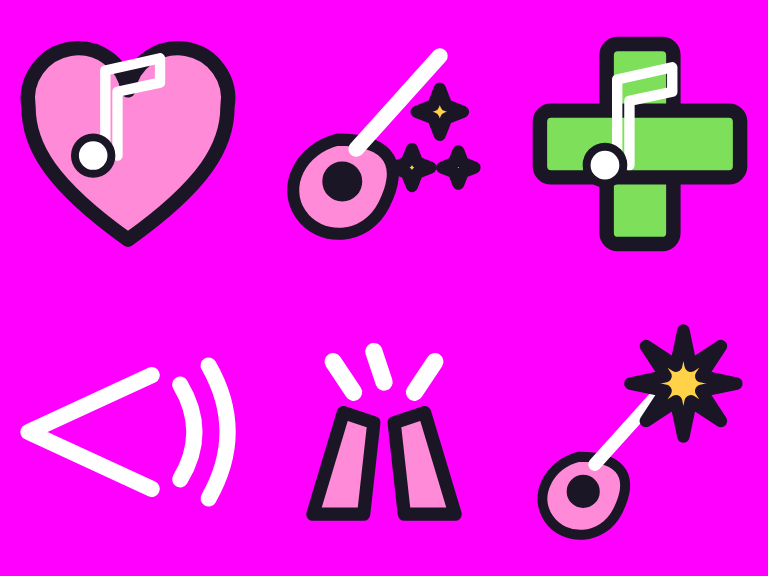
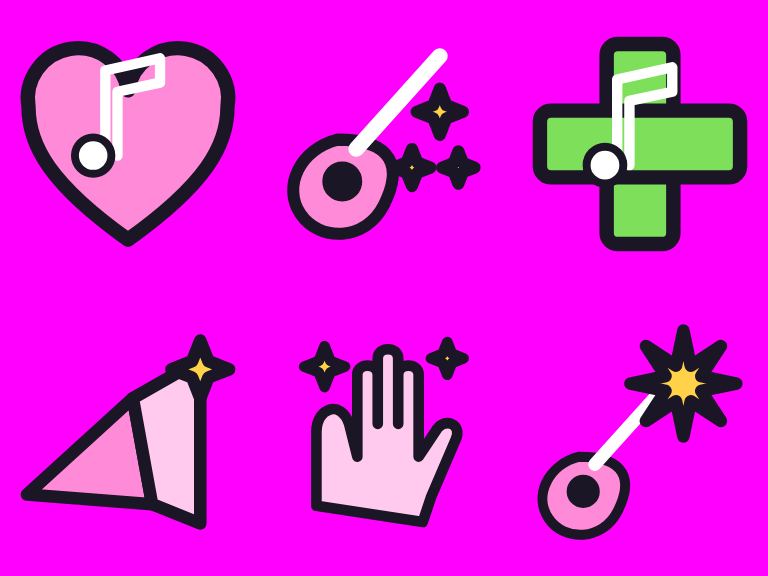
Clearer skill drawings for the newer classes, no arrows to copy (#107)
Wolf and bear heads with muzzles, a diving hawk, an ice cube and crystal
star, a candle, a horn, a clapping hand: whole objects instead of notation,
and their descriptions to match.

Claude-Session: https://claude.ai/code/session_014ahczLapsyjHfgmunVY6Sb

Changed region(s): [[0.0312, 0.5625, 0.3125, 0.9375], [0.375, 0.5625, 0.625, 0.9375]]

diff --git a/src/components/art/glyphs.ts b/src/components/art/glyphs.ts
@@ -245,47 +245,47 @@ export const GLYPHS: Readonly<Record<string, string>> = {
   'skill.glacialCharge': G('rotate(90 24 24)', SWORD('u')) + P('M2 14l8 3-8 3zM4 26l8 2-8 3zM2 36l8 2-8 3z', 'b'),
   'skill.frozenHeart': HEART('u') + P('M24 12l-6 8 6 18 6-18z', 'w'),
   'skill.rimeField': P('M4 32a20 8 0 1 0 40 0a20 8 0 1 0-40 0z', 'b') + P('M8 30l2-10 3 9M20 26l3-12 3 12M34 28l3-10 2 10', 'u'),
-  'skill.frostShatter': R(16, 16, 16, 16, 2, 'u') + P('M8 8l6 6M40 8l-6 6M8 40l6-6M40 40l-6-6', 'n') + P('M2 6l4 4M46 6l-4 4M2 42l4-4M46 42l-4-4', 'b'),
-  'skill.shatterpoint': P('M24 4l14 12-6 26H16l-6-26z', 'u') + P('M24 4l-3 14 6 6-3 18', 'n') + C(23, 22, 4, 'r'),
-  'skill.avalancheLeap': P('M4 44L24 14l20 30z', 'w') + P('M16 26l8-12 8 12-4-2-4 4-4-4z', 'u') + P('M24 2v14m-5-5 5 5 5-5', 'n'),
-  'skill.iceborn': R(18, 6, 12, 36, 3, 'u') + P('M4 44l10-14 6 6 8-14 8 12 8 10z', 'b'),
-  'skill.absoluteZero': C(24, 24, 21, 'b') + star(24, 22, 15, 5, 6, 'w', 0) + C(24, 40, 4, 'r'),
+  'skill.frostShatter': P('M14 16l10-6 10 6v14l-10 6-10-6z', 'u') + P('M14 16l10 6 10-6M24 22v14', 'i') + P('M10 10L2 4l3 9zM38 10l8-6-3 9zM10 34l-8 6 9-1zM38 34l8 6-9-1z', 'b'),
+  'skill.shatterpoint': P('M24 3l13 11-4 26-9 5-9-5-4-26z', 'u') + P('M24 3l-3 13 6 6-4 10 2 13', 'i') + P('M38 12l7-3-3 7zM6 30l-4 5 6-1zM40 34l6 2-5 4z', 'b'),
+  'skill.avalancheLeap': P('M2 44L22 14l8 10 6-6 10 26z', 'w') + P('M22 14l-4 7 4-2 3 3zM36 18l-3 5 4-1 2 2z', 'u') + star(22, 12, 12, 5, 8, 'w', -90) + P('M14 6l-3-4 5 1zM32 4l3-4 0 5zM34 16l6-1-4 4z', 'u'),
+  'skill.iceborn': G('translate(0 4)', P('M10 28C10 15 16 7 24 7s14 8 14 21v10H27V27h-6v11H10z', 'u') + P('M24 7v9', 'w') + P('M13 16L4 2l12 10zM35 16l9-14-12 10z', 'w')),
+  'skill.absoluteZero': star(24, 24, 21, 8, 6, 'u', -90) + star(24, 24, 12, 5, 6, 'w', -60) + C(24, 24, 4, 'b'),
 
   // ── Lightbringer (#86) ──
-  'skill.sunbolt': C(14, 24, 9, 'g') + P('M22 22h24v4H22z', 'g') + P('M14 10v-6M14 44v-6M4 24H0M6 14l-3-3M6 34l-3 3', 'n'),
+  'skill.sunbolt': P('M4 30l18-10 2 8z', 'g') + C(32, 20, 11, 'g') + C(32, 20, 6, 'w') + P('M32 5v-3M44 9l2-2M47 20h3M44 31l2 2', 'g'),
   'skill.mendingLight': HEART('a') + R(21, 14, 6, 16, 1.5, 'w') + R(16, 19, 16, 6, 1.5, 'w') + star(40, 8, 5, 2, 4, 'g', 0) + star(8, 10, 4, 1.6, 4, 'g', 0),
-  'skill.kindledHope': P('M8 34c4 10 28 10 32 0l-6-4H14z', 'b') + G('translate(14 4) scale(0.42)', FLAME('g')),
-  'skill.lanceOfLight': P('M4 22h30v4H4z', 'g') + star(38, 24, 9, 3.5, 4, 'w', 0),
+  'skill.kindledHope': R(17, 22, 14, 22, 3, 'w') + P('M17 28h14', 'i') + G('translate(13 0) scale(0.46)', FLAME('g')),
+  'skill.lanceOfLight': P('M4 28L36 18l2 6-32 8z', 'g') + P('M34 14l12 6-10 8z', 'w'),
   'skill.dawnShield': SHIELD('a') + P('M14 28a10 10 0 0 1 20 0z', 'g') + P('M24 14v4M16 18l2 3M32 18l-2 3', 'n'),
   'skill.haloWard': P('M10 8a14 5 0 1 0 28 0a14 5 0 1 0-28 0z', 'g') + G('translate(10 14) scale(0.6)', SHIELD('a')),
   'skill.dawnSanctuary': P('M4 36a20 8 0 1 0 40 0a20 8 0 1 0-40 0z', 'b') + R(21, 6, 6, 30, 2, 'g') + R(14, 14, 20, 6, 2, 'g'),
   'skill.blindingFlash': P('M3 30c6-9 13-13 21-13s15 4 21 13c-6 9-13 13-21 13S9 39 3 30z', 'w') + C(24, 30, 6, 'd') + star(24, 12, 12, 4, 8, 'g', 0),
   'skill.guardianLight': P('M24 30C14 14 4 14 2 18c8 2 14 8 22 12zM24 30c10-16 20-16 22-12-8 2-14 8-22 12z', 'g') + G('translate(14 18) scale(0.42)', HEART('a')),
-  'skill.sunfall': C(24, 10, 8, 'g') + R(19, 18, 10, 26, 3, 'g') + P('M10 44h28', 'n'),
+  'skill.sunfall': C(24, 10, 8, 'g') + C(24, 10, 4, 'w') + P('M18 16h12l3 26H15z', 'g') + P('M22 18h4l1 22h-6z', 'w') + P('M8 44h32', 'i'),
   'skill.searingLight': C(24, 24, 14, 'g') + RAYS('g') + star(24, 24, 8, 3, 4, 'w', 0),
-  'skill.haloOfDawn': C(24, 24, 21, 'b') + RAYS('g') + C(24, 16, 5, 'w') + P('M18 40c0-10 12-10 12 0z', 'w'),
+  'skill.haloOfDawn': RAYS('g') + P('M10 22a14 6 0 1 0 28 0a14 6 0 1 0-28 0z', 'g') + P('M16 22a8 3 0 1 0 16 0a8 3 0 1 0-16 0z', 'w'),
 
   // ── Beastcaller (#86) ──
-  'skill.callWolf': C(24, 24, 21, 'b') + P('M10 12l6 8h16l6-8 2 14-6 12c-4 6-16 6-20 0l-6-12z', 'a') + C(19, 26, 2.4, 'd') + C(29, 26, 2.4, 'd') + P('M22 34h4l-2 3z', 'd') + P('M32 8l8-6', 'n'),
-  'skill.wolfPounce': G('translate(-4 -6) scale(0.8)', P('M10 12l6 8h16l6-8 2 14-6 12c-4 6-16 6-20 0l-6-12z', 'a') + C(19, 26, 2.4, 'd') + C(29, 26, 2.4, 'd') + P('M22 34h4l-2 3z', 'd')) + P('M36 30v12m-5-5 5 5 5-5', 'n'),
+  'skill.callWolf': P('M8 6l9 9h14l9-9 1 15-4 7 1 6-6 8-4 3h-8l-4-3-6-8 1-6-4-7z', 'a') + P('M17 30l7 12 7-12-7-3z', 'b') + P('M21 37h6l-3 4z', 'd') + P('M14 22l6 2-5 2zM34 22l-6 2 5 2z', 'd') + P('M12 9l4 5-3 2zM36 9l-4 5 3 2z', 'b'),
+  'skill.wolfPounce': G('rotate(-18 24 20) translate(2 -4) scale(0.8)', P('M8 6l9 9h14l9-9 1 15-4 7 1 6-6 8-4 3h-8l-4-3-6-8 1-6-4-7z', 'a') + P('M17 30l7 12 7-12-7-3z', 'b') + P('M21 37h6l-3 4z', 'd') + P('M14 22l6 2-5 2zM34 22l-6 2 5 2z', 'd') + P('M12 9l4 5-3 2zM36 9l-4 5 3 2z', 'b')) + G('translate(4 34) scale(0.55)', P('M4 10c0-6 4-8 8-8s8 2 8 8-4 8-8 8-8-2-8-8z', 'a') + C(4, 2, 3, 'a') + C(12, -1, 3, 'a') + C(20, 2, 3, 'a')) + G('translate(30 36) scale(0.55)', P('M4 10c0-6 4-8 8-8s8 2 8 8-4 8-8 8-8-2-8-8z', 'a') + C(4, 2, 3, 'a') + C(12, -1, 3, 'a') + C(20, 2, 3, 'a')),
   'skill.wildKinship': HEART('a') + G('translate(14 14) scale(0.42)', C(24, 30, 9, 'w') + C(14, 18, 4, 'w') + C(22, 12, 4, 'w') + C(30, 12, 4, 'w') + C(36, 18, 4, 'w')),
-  'skill.callHawk': P('M24 30C14 14 4 14 2 18c8 2 14 8 22 12zM24 30c10-16 20-16 22-12-8 2-14 8-22 12z', 'g') + P('M20 30l4 14 4-14z', 'a') + C(24, 26, 4, 'w'),
-  'skill.callBear': C(12, 12, 6, 'a') + C(36, 12, 6, 'a') + C(24, 28, 16, 'a') + C(18, 24, 2.4, 'd') + C(30, 24, 2.4, 'd') + P('M20 34q4 4 8 0', 'n'),
+  'skill.callHawk': P('M24 24C17 12 8 6 2 8c3 3 4 6 6 7-2 0-3 1-3 2 3 1 6 3 8 3-1 1-1 2 0 3 4 0 8 1 11 1z', 'g') + P('M24 24C31 12 40 6 46 8c-3 3-4 6-6 7 2 0 3 1 3 2-3 1-6 3-8 3 1 1 1 2 0 3-4 0-8 1-11 1z', 'g') + P('M19 20c0-4 2-7 5-7s5 3 5 7l-1 14-4 8-4-8z', 'k') + P('M21 28l3 4 3-4', 'b') + P('M22 17l2 5 2-5z', 'g') + C(21.5, 16, 1.4, 'd') + C(26.5, 16, 1.4, 'd'),
+  'skill.callBear': C(12, 12, 7, 'k') + C(36, 12, 7, 'k') + C(12, 12, 3.4, 'b') + C(36, 12, 3.4, 'b') + C(24, 26, 17, 'k') + P('M17 30a7 6 0 1 0 14 0a7 6 0 1 0-14 0z', 'b') + P('M21 29h6l-3 4z', 'd') + P('M15 22l5 1-4 2zM33 22l-5 1 4 2z', 'd'),
   'skill.thickHide': SHIELD('a') + P('M14 14l4 8M22 12l4 10M30 14l4 8M16 28l4 6M26 28l4 6', 'n'),
   'skill.packBond': G('translate(2 2) scale(0.35)', C(24, 30, 9, 'a') + C(14, 18, 4, 'a') + C(22, 12, 4, 'a') + C(30, 12, 4, 'a') + C(36, 18, 4, 'a')) + G('translate(30 2) scale(0.35)', C(24, 30, 9, 'a') + C(14, 18, 4, 'a') + C(22, 12, 4, 'a') + C(30, 12, 4, 'a') + C(36, 18, 4, 'a')) + G('translate(16 28) scale(0.35)', C(24, 30, 9, 'a') + C(14, 18, 4, 'a') + C(22, 12, 4, 'a') + C(30, 12, 4, 'a') + C(36, 18, 4, 'a')) + R(21, 14, 6, 16, 1.5, 'w') + R(16, 19, 16, 6, 1.5, 'w'),
   'skill.spiritStampede': G('translate(-4 4) scale(0.4)', C(24, 30, 9, 'a') + C(14, 18, 4, 'a') + C(22, 12, 4, 'a') + C(30, 12, 4, 'a') + C(36, 18, 4, 'a')) + G('translate(12 4) scale(0.4)', C(24, 30, 9, 'a') + C(14, 18, 4, 'a') + C(22, 12, 4, 'a') + C(30, 12, 4, 'a') + C(36, 18, 4, 'a')) + G('translate(28 4) scale(0.4)', C(24, 30, 9, 'a') + C(14, 18, 4, 'a') + C(22, 12, 4, 'a') + C(30, 12, 4, 'a') + C(36, 18, 4, 'a')) + P('M2 36h12M6 42h10', 'n'),
   'skill.packTactics': P('M24 2l10 20-10 6-10-6z', 'm') + G('translate(-2 24) scale(0.4)', C(24, 30, 9, 'a') + C(14, 18, 4, 'a') + C(22, 12, 4, 'a') + C(30, 12, 4, 'a') + C(36, 18, 4, 'a')) + G('translate(30 24) scale(0.4)', C(24, 30, 9, 'a') + C(14, 18, 4, 'a') + C(22, 12, 4, 'a') + C(30, 12, 4, 'a') + C(36, 18, 4, 'a')),
-  'skill.alphaHowl': G('translate(-4 2) scale(0.85)', P('M10 12l6 8h16l6-8 2 14-6 12c-4 6-16 6-20 0l-6-12z', 'a') + C(19, 26, 2.4, 'd') + C(29, 26, 2.4, 'd') + P('M22 34h4l-2 3z', 'd')) + P('M36 10q6 6 0 12M40 6q10 10 0 20', 'n'),
+  'skill.alphaHowl': P('M16 46l2-18-6-10 4-14 6 8 6-2 10-6-2 12 6 4-6 6-4 20z', 'a') + P('M30 8l8-6 0 10z', 'b') + P('M22 20l4 1-3 2z', 'd') + star(40, 30, 6, 2.4, 4, 'w', 0),
   'skill.leaderOfThePack': G('translate(4 8) scale(0.85)', C(24, 30, 9, 'a') + C(14, 18, 4, 'a') + C(22, 12, 4, 'a') + C(30, 12, 4, 'a') + C(36, 18, 4, 'a')) + G('translate(12 -4) scale(0.5)', CROWN('g')),
   'skill.wildHunt': P('M30 4a12 12 0 1 0 0 20a14 14 0 0 1 0-20z', 'g') + P('M4 40l6-6 8 2 6-4 8 4 6-4 6 8z', 'a'),
 
   // ── Elementalist (#95) ──
   'skill.prismBolt': P('M24 4l14 20-14 20-14-20z', 'r') + P('M24 4l14 20-14 20z', 'u') + P('M24 4v40', 'n'),
   'skill.elementalHarmony': C(24, 24, 16, 'n') + C(24, 8, 5, 'r') + C(40, 24, 5, 'u') + C(24, 40, 5, 'g') + C(8, 24, 5, 'm'),
-  'skill.frostLance': P('M2 22h30l12 2-12 2H2z', 'u') + P('M32 18l12 6-12 6z', 'w'),
-  'skill.chainSpark': P('M6 4l12 14-6 4 14 12-4 2 12 10', 'n') + C(6, 4, 3, 'g') + C(24, 36, 3, 'g') + C(38, 44, 3, 'g'),
+  'skill.frostLance': P('M4 26L34 20l10 4-10 4z', 'u') + P('M8 25L34 21v6z', 'w') + P('M16 18l4 4-6 0zM24 16l4 5-6 0zM20 32l4-4-6 0z', 'u'),
+  'skill.chainSpark': P('M28 2L12 22h9l-5 12 8-6-2 18 14-24h-9l6-14z', 'g') + P('M6 30l4 4-5 2zM40 36l5 2-4 4zM8 8l5 3-5 2z', 'g'),
   'skill.smolderingCore': ROCK('d') + C(24, 26, 6, 'r') + G('translate(28 4) scale(0.4)', DROP('u')),
-  'skill.rollingBoulder': C(28, 28, 16, 'm') + P('M22 20l6 6-4 6', 'n') + P('M2 18h8M2 26h6M2 34h8', 'n'),
+  'skill.rollingBoulder': C(26, 26, 17, 'm') + P('M18 18l6 2 2 8-6 4-6-4z', 'b') + P('M30 14l6 4-2 6M32 34l4-6', 'i') + P('M2 42h10M4 36h6', 'b'),
   'skill.thunderSnow': P('M8 18c-6 0-6-10 1-10 0-6 10-8 14-3 4-5 15-3 14 3 7 0 7 10 0 10z', 'b') + star(14, 32, 7, 2.5, 6, 'u', 0) + G('translate(20 18) scale(0.5)', BOLT('g')),
   'skill.spellweave': P('M6 10c12 8 24 20 36 28M6 38c12-8 24-20 36-28', 'n') + star(24, 24, 9, 3.5, 4, 'g', 0),
   'skill.prismaticNova': P('M24 24L24 2M24 24L46 24M24 24L24 46M24 24L2 24', 'n') + C(24, 4, 4, 'r') + C(44, 24, 4, 'u') + C(24, 44, 4, 'g') + C(4, 24, 4, 'm') + C(24, 24, 5, 'w'),
@@ -297,7 +297,7 @@ export const GLYPHS: Readonly<Record<string, string>> = {
   'skill.wispBolt': G('translate(-4 -4) scale(1)', P('M24 10c8 0 12 8 12 16 0 10-6 16-12 16-4 0-6-4-4-8-6 2-8-4-6-8 2-10 4-16 10-16z', 'b') + C(20, 24, 2.2, 'd') + C(28, 24, 2.2, 'd')) + P('M8 40q6 4 10-2', 'n'),
   'skill.kindredSpirits': G('translate(-10 4) scale(0.75)', P('M12 44V22c0-10 6-16 12-16s12 6 12 16v22l-4-4-4 4-4-4-4 4-4-4z', 'w') + C(20, 22, 2.4, 'd') + C(28, 22, 2.4, 'd')) + G('translate(16 4) scale(0.75)', P('M12 44V22c0-10 6-16 12-16s12 6 12 16v22l-4-4-4 4-4-4-4 4-4-4z', 'w') + C(20, 22, 2.4, 'd') + C(28, 22, 2.4, 'd')) + G('translate(18 0) scale(0.3)', HEART('a')),
   'skill.callTheFallen': P('M8 30h32v6c0 6-6 10-16 10S8 42 8 36z', 'b') + G('translate(2 -6) scale(0.4)', P('M24 10c8 0 12 8 12 16 0 10-6 16-12 16-4 0-6-4-4-8-6 2-8-4-6-8 2-10 4-16 10-16z', 'b') + C(20, 24, 2.2, 'd') + C(28, 24, 2.2, 'd')) + G('translate(14 -10) scale(0.4)', P('M24 10c8 0 12 8 12 16 0 10-6 16-12 16-4 0-6-4-4-8-6 2-8-4-6-8 2-10 4-16 10-16z', 'b') + C(20, 24, 2.2, 'd') + C(28, 24, 2.2, 'd')) + G('translate(26 -6) scale(0.4)', P('M24 10c8 0 12 8 12 16 0 10-6 16-12 16-4 0-6-4-4-8-6 2-8-4-6-8 2-10 4-16 10-16z', 'b') + C(20, 24, 2.2, 'd') + C(28, 24, 2.2, 'd')),
-  'skill.soulBond': G('translate(-8 0) scale(0.6)', P('M24 10c8 0 12 8 12 16 0 10-6 16-12 16-4 0-6-4-4-8-6 2-8-4-6-8 2-10 4-16 10-16z', 'b') + C(20, 24, 2.2, 'd') + C(28, 24, 2.2, 'd')) + G('translate(20 0) scale(0.6)', P('M24 10c8 0 12 8 12 16 0 10-6 16-12 16-4 0-6-4-4-8-6 2-8-4-6-8 2-10 4-16 10-16z', 'b') + C(20, 24, 2.2, 'd') + C(28, 24, 2.2, 'd')) + P('M14 34c6 10 14 10 20 0', 'n'),
+  'skill.soulBond': G('translate(-8 0) scale(0.6)', P('M24 10c8 0 12 8 12 16 0 10-6 16-12 16-4 0-6-4-4-8-6 2-8-4-6-8 2-10 4-16 10-16z', 'b') + C(20, 24, 2.2, 'd') + C(28, 24, 2.2, 'd')) + G('translate(20 0) scale(0.6)', P('M24 10c8 0 12 8 12 16 0 10-6 16-12 16-4 0-6-4-4-8-6 2-8-4-6-8 2-10 4-16 10-16z', 'b') + C(20, 24, 2.2, 'd') + C(28, 24, 2.2, 'd')) + P('M12 32c6 8 18 8 24 0l-3 6c-6 4-12 4-18 0z', 'g'),
   'skill.restlessSouls': P('M24 10c8 0 12 8 12 16 0 10-6 16-12 16-4 0-6-4-4-8-6 2-8-4-6-8 2-10 4-16 10-16z', 'b') + C(20, 24, 2.2, 'd') + C(28, 24, 2.2, 'd') + P('M4 44h6M14 44h6M24 44h6M34 44h6', 'n'),
   'skill.spiritLantern': R(16, 14, 16, 24, 4, 'g') + R(19, 17, 10, 18, 3, 'w') + P('M24 4v10M18 10h12', 'n') + P('M8 26H2M46 26h-6M10 14l-4-4M38 14l4-4', 'n'),
   'skill.hauntingWail': C(22, 24, 16, 'w') + C(16, 20, 2.4, 'd') + C(28, 20, 2.4, 'd') + C(22, 30, 4, 'd') + P('M40 16q6 8 0 16M44 12q8 12 0 24', 'n'),
@@ -310,14 +310,14 @@ export const GLYPHS: Readonly<Record<string, string>> = {
   // ── Iron Monk (#95) ──
   'skill.palmStrike': P('M14 44V22l-4-8 3-2 5 6V8h4v14V6h4v16V8h4v14l4-6 3 2-5 10v16z', 'a') + P('M40 14h6M40 22h6M40 30h6', 'n'),
   'skill.ironBody': P('M12 8h24l4 10-4 26H12L8 18z', 'm') + C(16, 14, 1.8, 'd') + C(32, 14, 1.8, 'd') + C(16, 38, 1.8, 'd') + C(32, 38, 1.8, 'd'),
-  'skill.flyingKick': P('M8 40l18-18 8 2 8-6 2 4-10 8-8-2L12 44z', 'a') + P('M2 30l10-10M4 40l8-8', 'n'),
+  'skill.flyingKick': P('M6 42l12-14 6 2 12-10 8 4-2 6-8 2-10 8-8-2-8 6z', 'a') + P('M36 20l8 4-3 4-8-2z', 'k') + P('M2 28l8-4M2 36l6-2', 'b'),
   'skill.tigerStance': C(24, 30, 9, 'g') + C(14, 18, 4, 'g') + C(22, 12, 4, 'g') + C(30, 12, 4, 'g') + C(36, 18, 4, 'g') + P('M18 30l4-4M26 34l4-4', 'n'),
-  'skill.craneStance': P('M24 6c4 0 6 4 4 8l-4 10 10 4-12 2v14h-2V30L10 26l12-4z', 'w') + P('M28 8l8-2', 'n'),
+  'skill.craneStance': P('M30 6c4 0 6 3 5 6l-5 8c6 2 10 8 10 14-8 0-14-4-18-10l-12-4 12-2c2-6 4-12 8-12z', 'w') + P('M35 9l9 2-9 2z', 'g') + P('M26 30v14M26 36l-4-2', 'i') + C(32, 9, 1.4, 'd'),
   'skill.flowingFists': G('translate(0 2) scale(0.8)', R(12, 16, 24, 20, 6, 'a') + P('M18 16v8M24 16v8M30 16v8', 'n') + R(8, 22, 8, 10, 4, 'a')) + P('M4 40c6-6 12 6 18 0s12 6 18 0', 'n'),
   'skill.hundredFists': G('translate(-4 -2) scale(0.5)', R(12, 16, 24, 20, 6, 'a') + P('M18 16v8M24 16v8M30 16v8', 'n') + R(8, 22, 8, 10, 4, 'a')) + G('translate(16 -6) scale(0.5)', R(12, 16, 24, 20, 6, 'a') + P('M18 16v8M24 16v8M30 16v8', 'n') + R(8, 22, 8, 10, 4, 'a')) + G('translate(6 14) scale(0.5)', R(12, 16, 24, 20, 6, 'a') + P('M18 16v8M24 16v8M30 16v8', 'n') + R(8, 22, 8, 10, 4, 'a')) + G('translate(24 16) scale(0.5)', R(12, 16, 24, 20, 6, 'a') + P('M18 16v8M24 16v8M30 16v8', 'n') + R(8, 22, 8, 10, 4, 'a')),
-  'skill.risingDragon': G('translate(2 6) scale(0.7)', R(12, 16, 24, 20, 6, 'a') + P('M18 16v8M24 16v8M30 16v8', 'n') + R(8, 22, 8, 10, 4, 'a')) + P('M10 40c-8-12 4-24 14-20s16-10 10-18', 'n') + P('M34 2l6 2-4 4z', 'a'),
+  'skill.risingDragon': G('translate(2 10) scale(0.7)', R(12, 16, 24, 20, 6, 'a') + R(8, 22, 8, 10, 4, 'a')) + P('M8 42c-6-10 2-22 12-22s14-8 10-16c8 2 12 10 8 18-4 6-12 6-14 12', 'b') + P('M30 4l4-4 2 6z', 'b'),
   'skill.cranesGrace': P('M36 4C20 8 10 22 10 40l4-2c2-12 10-24 22-34z', 'w') + P('M10 40L34 6', 'n'),
-  'skill.whirlwindKick': SPIRAL() + P('M38 6l8 2-4 6z', 'a'),
+  'skill.whirlwindKick': P('M24 6a18 18 0 1 1-17 22', 'b') + P('M8 22c2 6 8 4 10 10l14-4 8 4-4 6-16 2c-8 0-12-6-12-18z', 'a') + P('M36 32l8 0-2 6z', 'k'),
   'skill.tigersFury': G('translate(6 10) scale(0.75)', R(12, 16, 24, 20, 6, 'a') + P('M18 16v8M24 16v8M30 16v8', 'n') + R(8, 22, 8, 10, 4, 'a')) + P('M10 4l14 14M18 2l14 14M26 4l14 14', 'r'),
   'skill.mountainPalm': P('M4 44l14-20 6 8 8-14 12 26z', 'b') + G('translate(10 -10) scale(0.6)', P('M14 44V22l-4-8 3-2 5 6V8h4v14V6h4v16V8h4v14l4-6 3 2-5 10v16z', 'a')),
 
@@ -331,8 +331,8 @@ export const GLYPHS: Readonly<Record<string, string>> = {
   'skill.charmingSerenade': HEART('a') + G('translate(10 6) scale(0.55)', P('M18 36V8l18-4v8l-14 3v21', 'n') + C(14, 36, 6, 'w')),
   'skill.virtuoso': P('M18 24c-8 2-12 10-8 16s14 6 18-2 2-14-10-14z', 'a') + P('M22 26L40 6', 'n') + C(19, 33, 3, 'd') + star(40, 18, 5, 2, 4, 'g', 0) + star(34, 30, 4, 1.6, 4, 'g', 0) + star(44, 30, 3.5, 1.4, 4, 'g', 0),
   'skill.hymnOfMending': R(18, 6, 12, 36, 2, 'e') + R(6, 18, 36, 12, 2, 'e') + G('translate(10 8) scale(0.55)', P('M18 36V8l18-4v8l-14 3v21', 'n') + C(14, 36, 6, 'w')),
-  'skill.crescendo': P('M4 24L30 12M4 24l26 12', 'n') + P('M36 14q6 10 0 20M42 10q8 14 0 28', 'n'),
-  'skill.standingOvation': P('M10 40l6-20 6 2-2 18zM38 40l-6-20-6 2 2 18z', 'a') + P('M22 8l2 6M14 10l4 6M34 10l-4 6', 'n'),
+  'skill.crescendo': P('M4 34L26 14l4 22z', 'a') + P('M26 14l14-8v34l-10-4z', 'b') + star(40, 8, 6, 2.4, 4, 'g', 0),
+  'skill.standingOvation': P('M8 44V26c0-6 6-8 8-2l2 8V12c0-3 5-3 5 0v12V8c0-3 5-3 5 0v16V12c0-3 5-3 5 0v20l4-6c2-4 7-2 5 2l-6 14-2 6z', 'b') + star(10, 10, 5, 2, 4, 'g', 0) + star(40, 8, 4, 1.6, 4, 'g', 0),
   'skill.grandFinale': G('translate(0 8) scale(0.8)', P('M18 24c-8 2-12 10-8 16s14 6 18-2 2-14-10-14z', 'a') + P('M22 26L40 6', 'n') + C(19, 33, 3, 'd')) + star(36, 12, 11, 4, 8, 'g', 0),
 
   // ── Statuses ──

diff --git a/src/game/art/artSheet.ts b/src/game/art/artSheet.ts
@@ -265,44 +265,44 @@ const SKILL_BLURBS: Readonly<Record<string, string>> = {
   glacialCharge: 'a blue sword pointing right with ice shards streaming behind it',
   frozenHeart: 'a blue heart cut with facets like a crystal',
   rimeField: 'a flat oval on the ground with frost spikes around its rim',
-  frostShatter: 'an ice block bursting into four shards flying out from its corners',
-  shatterpoint: 'a cracked blue crystal with a bold red dot on the crack',
-  avalancheLeap: 'a thick arrow pointing down at a snow-capped peak',
-  iceborn: 'a tall blue ice pillar standing in front of a pale mountain',
-  absoluteZero: 'a big white snowflake inside a round pale disc, a small red thermometer bulb at the bottom',
+  frostShatter: 'a solid blue ice cube cracking apart, four pointed ice shards flying off its corners',
+  shatterpoint: 'a tall faceted blue ice crystal split down the middle by a jagged dark crack, three chips flying off its sides',
+  avalancheLeap: 'a snow-capped peak with a big white burst of snow exploding on its top, blue ice chunks flying off it',
+  iceborn: 'a knight\'s helmet carved from clear blue ice, two long frost horns sweeping up from its sides',
+  absoluteZero: 'a big six-pointed ice crystal star, a smaller white star crystal inside it and a pale blue gem in its centre',
   // Lightbringer
-  sunbolt: 'a small gold sun with one long ray shooting out to the right',
+  sunbolt: 'a blazing gold sun orb with a white-hot centre, trailing a short solid golden tail to the lower left as it flies',
   mendingLight: 'a rose heart with a white plus sign on it and small gold sparkles rising beside it',
-  kindledHope: 'a small gold candle flame cupped in a pair of pale hands',
-  lanceOfLight: 'a straight gold beam with a white four-pointed starburst at its tip',
+  kindledHope: 'a short white wax candle with a small gold flame burning on top',
+  lanceOfLight: 'a long spear of solid gold light flying up and to the right, its tip a white-hot point',
   dawnShield: 'a rose shield with a gold half-sun rising across its lower half',
   haloWard: 'a gold halo ring floating above a small rose shield',
   dawnSanctuary: 'a flat oval of light on the ground with a gold cross of light rising out of it',
   blindingFlash: 'a wide eye with a big gold eight-pointed starburst flashing above it',
   guardianLight: 'gold wings of light folded around a rose heart',
-  sunfall: 'a gold sun dropping a thick pillar of light straight down to the ground',
+  sunfall: 'a gold sun hanging at the top, pouring a thick solid pillar of golden light straight down to the ground',
   searingLight: 'a gold sun with rays and a sharp white four-pointed star in its centre',
-  haloOfDawn: 'a small white figure inside a big radiant gold halo',
+  haloOfDawn: 'a big golden halo ring floating flat, with solid gold sun rays fanning out all around it',
   // Beastcaller
-  callWolf: 'a leaf-green wolf head seen from the front inside a pale circle',
-  wolfPounce: 'a green wolf head leaning forward with a thick arrow pointing down beside it',
+  callWolf: 'a leaf-green spirit wolf\'s head seen from the front: tall pointed ears, a long muzzle with a dark nose, narrow fierce eyes and pale cheek ruffs',
+  wolfPounce: 'a leaf-green spirit wolf\'s head lunging forward with jaws open, its two front paws stretched out below it, claws out',
   wildKinship: 'a green heart with a white paw print on it',
-  callHawk: 'a golden hawk with spread wings diving down',
-  callBear: 'a honey-brown bear head seen from the front with round ears',
+  callHawk: 'a golden-brown hawk swooping down at the viewer, broad feathered wings spread wide, a hooked yellow beak and sharp eyes',
+  callBear: 'a honey-brown bear\'s head seen from the front: round ears with pale insides, a pale muzzle, a dark nose and small fierce eyes',
   thickHide: 'a shield shape covered in short fur stripes',
   packBond: 'three green paw prints in a ring around a white plus sign',
   spiritStampede: 'three green paw prints running to the right with speed lines below them',
   packTactics: 'a steel spearhead pointing up with a green paw print on each side',
-  alphaHowl: 'a green wolf head with curved sound arcs coming from its mouth',
+  alphaHowl: 'a leaf-green spirit wolf\'s head raised to the sky in a howl, muzzle pointing up, a small white star of sound beside it',
   leaderOfThePack: 'a green paw print wearing a small gold crown',
   wildHunt: 'a gold crescent moon over a low line of running animal shapes',
   // Elementalist
   prismBolt: 'a small diamond-shaped prism, its left half flame orange and its right half ice blue',
   elementalHarmony: 'four small orbs, red, blue, gold and stone grey, sitting on a thin ring',
-  frostLance: 'a long ice-blue spear of ice pointing to the right',
-  chainSpark: 'a zigzag lightning bolt that forks into three bright tips',
+  frostLance: 'a long spear of clear blue ice pointing to the right, small ice spikes jutting from its shaft',
+  chainSpark: 'a jagged gold lightning bolt with three small sparks crackling off it',
   smolderingCore: 'a dark glowing coal with a red heart and a small blue drop above it',
-  rollingBoulder: 'a round grey boulder rolling to the right with three speed lines behind it',
+  rollingBoulder: 'a big round grey boulder with cracks and a chipped face',
   thunderSnow: 'a cloud with a snowflake and a lightning bolt falling from it',
   spellweave: 'two crossing ribbons of light with a gold four-pointed star where they cross',
   prismaticNova: 'a burst of four coloured rays from a white centre dot: red, blue, gold and grey',
@@ -313,7 +313,7 @@ const SKILL_BLURBS: Readonly<Record<string, string>> = {
   wispBolt: 'a friendly teardrop-shaped periwinkle wisp with two dot eyes and a little curl of a tail',
   kindredSpirits: 'two small friendly white ghost shapes side by side, one with a small heart',
   callTheFallen: 'an open cupped hand with three small glowing wisps rising from it',
-  soulBond: 'two small wisps joined by a curved ribbon',
+  soulBond: 'two small periwinkle wisps side by side, joined by a curved golden ribbon beneath them',
   restlessSouls: 'a glowing wisp rising over a dotted ground line',
   spiritLantern: 'a gold hanging lantern with a white glow inside and short rays around it',
   hauntingWail: 'a round white ghost face with an open round mouth and curved sound arcs',
@@ -325,14 +325,14 @@ const SKILL_BLURBS: Readonly<Record<string, string>> = {
   // Iron Monk
   palmStrike: 'an open jade palm facing forward with three short motion lines beside it',
   ironBody: 'a steel chest plate held on with four rivets',
-  flyingKick: 'a foot kicking up and to the right in a leap, with a long motion trail',
+  flyingKick: 'a jade-sleeved leg kicking straight up and to the right in a leap, a wooden sandal on the foot',
   tigerStance: 'a gold tiger paw print with two small claw marks',
-  craneStance: 'a white crane standing on one leg',
+  craneStance: 'a white crane standing tall on one leg, its wings half raised and a yellow beak',
   flowingFists: 'a jade fist above a flowing wave',
   hundredFists: 'four small jade fists fanned out together',
-  risingDragon: 'a jade fist rising with a long curling ribbon wrapped around it',
+  risingDragon: 'a jade fist driving upward, a long curling jade ribbon spiralling up around it',
   cranesGrace: 'a single long white feather',
-  whirlwindKick: 'a thick spiral with a small foot shape at its outer tip',
+  whirlwindKick: 'a jade-sleeved leg sweeping round in a high spinning kick, a wide pale curved swoosh following the foot',
   tigersFury: 'a jade fist with three red claw slashes across it',
   mountainPalm: 'a giant jade palm pressing down on a pale mountain peak',
   // Bard
@@ -345,8 +345,8 @@ const SKILL_BLURBS: Readonly<Record<string, string>> = {
   charmingSerenade: 'a pink heart with a white musical note on it',
   virtuoso: 'a pink lute with three small gold sparks flying from its strings',
   hymnOfMending: 'a green plus sign with a white musical note on it',
-  crescendo: 'a widening wedge shape opening to the right, with curved sound arcs',
-  standingOvation: 'two pink hands clapping with short motion lines above them',
+  crescendo: 'a pink brass horn, its bell flaring wide to the upper right, a gold four-pointed sparkle at its mouth',
+  standingOvation: 'a pale raised hand with spread fingers clapping, two small gold sparkles around it',
   grandFinale: 'a pink lute under a big bursting gold firework',
   // Blood Alchemist: alchemy, never gore
   essenceWard: 'a round red flask with a small white shield shape on its glass',

diff --git a/art-sheets/PROMPTS-SKILLS.md b/art-sheets/PROMPTS-SKILLS.md
@@ -1935,11 +1935,11 @@ EACH PANEL IS ONE CHUNKY PAINTED OBJECT OR BURST OF ENERGY — NOT A FLAT SYMBOL
 
 WHAT EACH PANEL IS:
 Panel 1 (row 1, column 1): a flat oval on the ground with frost spikes around its rim.
-Panel 2 (row 1, column 2): an ice block bursting into four shards flying out from its corners.
-Panel 3 (row 1, column 3): a cracked blue crystal with a bold red dot on the crack. Keep this one compact, well away from its panel's four corners (the game crops it to a circle). Do NOT draw a circle, ring, disc or badge around or behind it.
-Panel 4 (row 2, column 1): a thick arrow pointing down at a snow-capped peak.
-Panel 5 (row 2, column 2): a tall blue ice pillar standing in front of a pale mountain. Keep this one compact, well away from its panel's four corners (the game crops it to a circle). Do NOT draw a circle, ring, disc or badge around or behind it.
-Panel 6 (row 2, column 3): a big white snowflake inside a round pale disc, a small red thermometer bulb at the bottom.
+Panel 2 (row 1, column 2): a solid blue ice cube cracking apart, four pointed ice shards flying off its corners.
+Panel 3 (row 1, column 3): a tall faceted blue ice crystal split down the middle by a jagged dark crack, three chips flying off its sides. Keep this one compact, well away from its panel's four corners (the game crops it to a circle). Do NOT draw a circle, ring, disc or badge around or behind it.
+Panel 4 (row 2, column 1): a snow-capped peak with a big white burst of snow exploding on its top, blue ice chunks flying off it.
+Panel 5 (row 2, column 2): a knight's helmet carved from clear blue ice, two long frost horns sweeping up from its sides. Keep this one compact, well away from its panel's four corners (the game crops it to a circle). Do NOT draw a circle, ring, disc or badge around or behind it.
+Panel 6 (row 2, column 3): a big six-pointed ice crystal star, a smaller white star crystal inside it and a pale blue gem in its centre.
 
 COLOUR — ONE accent for the whole sheet: ice blue (about #a8d8ff). Wherever the reference uses that colour, yours does; white, gold, steel, wood, red, green and blue details keep the colours the reference gives them. Take the HUE, not the flatness.
 
@@ -2034,10 +2034,10 @@ EACH PANEL IS ONE CHUNKY PAINTED OBJECT OR BURST OF ENERGY — NOT A FLAT SYMBOL
 · The game draws its own coloured frame around each one. Nothing here sits on a tile, badge, ring or disc.
 
 WHAT EACH PANEL IS:
-Panel 1 (row 1, column 1): a small gold sun with one long ray shooting out to the right.
+Panel 1 (row 1, column 1): a blazing gold sun orb with a white-hot centre, trailing a short solid golden tail to the lower left as it flies.
 Panel 2 (row 1, column 2): a rose heart with a white plus sign on it and small gold sparkles rising beside it.
-Panel 3 (row 1, column 3): a small gold candle flame cupped in a pair of pale hands. Keep this one compact, well away from its panel's four corners (the game crops it to a circle). Do NOT draw a circle, ring, disc or badge around or behind it.
-Panel 4 (row 2, column 1): a straight gold beam with a white four-pointed starburst at its tip.
+Panel 3 (row 1, column 3): a short white wax candle with a small gold flame burning on top. Keep this one compact, well away from its panel's four corners (the game crops it to a circle). Do NOT draw a circle, ring, disc or badge around or behind it.
+Panel 4 (row 2, column 1): a long spear of solid gold light flying up and to the right, its tip a white-hot point.
 Panel 5 (row 2, column 2): a rose shield with a gold half-sun rising across its lower half.
 Panel 6 (row 2, column 3): a gold halo ring floating above a small rose shield. Keep this one compact, well away from its panel's four corners (the game crops it to a circle). Do NOT draw a circle, ring, disc or badge around or behind it.
 
@@ -2137,9 +2137,9 @@ WHAT EACH PANEL IS:
 Panel 1 (row 1, column 1): a flat oval of light on the ground with a gold cross of light rising out of it.
 Panel 2 (row 1, column 2): a wide eye with a big gold eight-pointed starburst flashing above it.
 Panel 3 (row 1, column 3): gold wings of light folded around a rose heart. Keep this one compact, well away from its panel's four corners (the game crops it to a circle). Do NOT draw a circle, ring, disc or badge around or behind it.
-Panel 4 (row 2, column 1): a gold sun dropping a thick pillar of light straight down to the ground.
+Panel 4 (row 2, column 1): a gold sun hanging at the top, pouring a thick solid pillar of golden light straight down to the ground.
 Panel 5 (row 2, column 2): a gold sun with rays and a sharp white four-pointed star in its centre. Keep this one compact, well away from its panel's four corners (the game crops it to a circle). Do NOT draw a circle, ring, disc or badge around or behind it.
-Panel 6 (row 2, column 3): a small white figure inside a big radiant gold halo.
+Panel 6 (row 2, column 3): a big golden halo ring floating flat, with solid gold sun rays fanning out all around it.
 
 COLOUR — ONE accent for the whole sheet: rose (about #ffa8c8). Wherever the reference uses that colour, yours does; white, gold, steel, wood, red, green and blue details keep the colours the reference gives them. Take the HUE, not the flatness.
 
@@ -2234,11 +2234,11 @@ EACH PANEL IS ONE CHUNKY PAINTED OBJECT OR BURST OF ENERGY — NOT A FLAT SYMBOL
 · The game draws its own coloured frame around each one. Nothing here sits on a tile, badge, ring or disc.
 
 WHAT EACH PANEL IS:
-Panel 1 (row 1, column 1): a leaf-green wolf head seen from the front inside a pale circle.
-Panel 2 (row 1, column 2): a green wolf head leaning forward with a thick arrow pointing down beside it.
+Panel 1 (row 1, column 1): a leaf-green spirit wolf's head seen from the front: tall pointed ears, a long muzzle with a dark nose, narrow fierce eyes and pale cheek ruffs.
+Panel 2 (row 1, column 2): a leaf-green spirit wolf's head lunging forward with jaws open, its two front paws stretched out below it, claws out.
 Panel 3 (row 1, column 3): a green heart with a white paw print on it. Keep this one compact, well away from its panel's four corners (the game crops it to a circle). Do NOT draw a circle, ring, disc or badge around or behind it.
-Panel 4 (row 2, column 1): a golden hawk with spread wings diving down.
-Panel 5 (row 2, column 2): a honey-brown bear head seen from the front with round ears.
+Panel 4 (row 2, column 1): a golden-brown hawk swooping down at the viewer, broad feathered wings spread wide, a hooked yellow beak and sharp eyes.
+Panel 5 (row 2, column 2): a honey-brown bear's head seen from the front: round ears with pale insides, a pale muzzle, a dark nose and small fierce eyes.
 Panel 6 (row 2, column 3): a shield shape covered in short fur stripes. Keep this one compact, well away from its panel's four corners (the game crops it to a circle). Do NOT draw a circle, ring, disc or badge around or behind it.
 
 COLOUR — ONE accent for the whole sheet: leaf green (about #4fb85a). Wherever the reference uses that colour, yours does; white, gold, steel, wood, red, green and blue details keep the colours the reference gives them. Take the HUE, not the flatness.
@@ -2337,7 +2337,7 @@ WHAT EACH PANEL IS:
 Panel 1 (row 1, column 1): three green paw prints in a ring around a white plus sign.
 Panel 2 (row 1, column 2): three green paw prints running to the right with speed lines below them.
 Panel 3 (row 1, column 3): a steel spearhead pointing up with a green paw print on each side. Keep this one compact, well away from its panel's four corners (the game crops it to a circle). Do NOT draw a circle, ring, disc or badge around or behind it.
-Panel 4 (row 2, column 1): a green wolf head with curved sound arcs coming from its mouth.
+Panel 4 (row 2, column 1): a leaf-green spirit wolf's head raised to the sky in a howl, muzzle pointing up, a small white star of sound beside it.
 Panel 5 (row 2, column 2): a green paw print wearing a small gold crown. Keep this one compact, well away from its panel's four corners (the game crops it to a circle). Do NOT draw a circle, ring, disc or badge around or behind it.
 Panel 6 (row 2, column 3): a gold crescent moon over a low line of running animal shapes.
 
@@ -2436,10 +2436,10 @@ EACH PANEL IS ONE CHUNKY PAINTED OBJECT OR BURST OF ENERGY — NOT A FLAT SYMBOL
 WHAT EACH PANEL IS:
 Panel 1 (row 1, column 1): a small diamond-shaped prism, its left half flame orange and its right half ice blue.
 Panel 2 (row 1, column 2): four small orbs, red, blue, gold and stone grey, sitting on a thin ring. Keep this one compact, well away from its panel's four corners (the game crops it to a circle). Do NOT draw a circle, ring, disc or badge around or behind it.
-Panel 3 (row 1, column 3): a long ice-blue spear of ice pointing to the right.
-Panel 4 (row 2, column 1): a zigzag lightning bolt that forks into three bright tips.
+Panel 3 (row 1, column 3): a long spear of clear blue ice pointing to the right, small ice spikes jutting from its shaft.
+Panel 4 (row 2, column 1): a jagged gold lightning bolt with three small sparks crackling off it.
 Panel 5 (row 2, column 2): a dark glowing coal with a red heart and a small blue drop above it. Keep this one compact, well away from its panel's four corners (the game crops it to a circle). Do NOT draw a circle, ring, disc or badge around or behind it.
-Panel 6 (row 2, column 3): a round grey boulder rolling to the right with three speed lines behind it.
+Panel 6 (row 2, column 3): a big round grey boulder with cracks and a chipped face.
 
 COLOUR — ONE accent for the whole sheet: magenta (about #e86bff). Wherever the reference uses that colour, yours does; white, gold, steel, wood, red, green and blue details keep the colours the reference gives them. Take the HUE, not the flatness.
 
@@ -2637,7 +2637,7 @@ WHAT EACH PANEL IS:
 Panel 1 (row 1, column 1): a friendly teardrop-shaped periwinkle wisp with two dot eyes and a little curl of a tail.
 Panel 2 (row 1, column 2): two small friendly white ghost shapes side by side, one with a small heart. Keep this one compact, well away from its panel's four corners (the game crops it to a circle). Do NOT draw a circle, ring, disc or badge around or behind it.
 Panel 3 (row 1, column 3): an open cupped hand with three small glowing wisps rising from it.
-Panel 4 (row 2, column 1): two small wisps joined by a curved ribbon.
+Panel 4 (row 2, column 1): two small periwinkle wisps side by side, joined by a curved golden ribbon beneath them.
 Panel 5 (row 2, column 2): a glowing wisp rising over a dotted ground line. Keep this one compact, well away from its panel's four corners (the game crops it to a circle). Do NOT draw a circle, ring, disc or badge around or behind it.
 Panel 6 (row 2, column 3): a gold hanging lantern with a white glow inside and short rays around it.
 
@@ -2836,9 +2836,9 @@ EACH PANEL IS ONE CHUNKY PAINTED OBJECT OR BURST OF ENERGY — NOT A FLAT SYMBOL
 WHAT EACH PANEL IS:
 Panel 1 (row 1, column 1): an open jade palm facing forward with three short motion lines beside it.
 Panel 2 (row 1, column 2): a steel chest plate held on with four rivets. Keep this one compact, well away from its panel's four corners (the game crops it to a circle). Do NOT draw a circle, ring, disc or badge around or behind it.
-Panel 3 (row 1, column 3): a foot kicking up and to the right in a leap, with a long motion trail.
+Panel 3 (row 1, column 3): a jade-sleeved leg kicking straight up and to the right in a leap, a wooden sandal on the foot.
 Panel 4 (row 2, column 1): a gold tiger paw print with two small claw marks.
-Panel 5 (row 2, column 2): a white crane standing on one leg.
+Panel 5 (row 2, column 2): a white crane standing tall on one leg, its wings half raised and a yellow beak.
 Panel 6 (row 2, column 3): a jade fist above a flowing wave. Keep this one compact, well away from its panel's four corners (the game crops it to a circle). Do NOT draw a circle, ring, disc or badge around or behind it.
 
 COLOUR — ONE accent for the whole sheet: jade (about #5fd08a). Wherever the reference uses that colour, yours does; white, gold, steel, wood, red, green and blue details keep the colours the reference gives them. Take the HUE, not the flatness.
@@ -2878,7 +2878,7 @@ READABLE AT 40 PIXELS — each of these is shown about 40 pixels wide in the gam
 · Hold each panel at thumbnail size: if it is not instantly recognisable as a silhouette with two or three big areas of colour, simplify it.
 
 SIZE AND PLACE — measure against the PANEL, not against the paper.
-· In the reference no drawing is wider than about 84% of its panel or taller than about 74%, and every panel keeps a clear magenta margin on all four sides.
+· In the reference no drawing is wider than about 84% of its panel or taller than about 75%, and every panel keeps a clear magenta margin on all four sides.
 · Paint each one as LARGE as the reference shows it: it takes up most of its panel, with a narrow, even margin of magenta around it. A small drawing in the middle of a big empty panel is the wrong answer.
 · Keep each one at the size and in the spot its own panel shows. If yours reaches a panel edge it is too big, and it will be cut in half by the slice.
 · Where a drawing sits in its panel is not a composition choice: do not re-centre, do not even out the spacing, do not let one lean into the next panel.
@@ -2935,9 +2935,9 @@ EACH PANEL IS ONE CHUNKY PAINTED OBJECT OR BURST OF ENERGY — NOT A FLAT SYMBOL
 
 WHAT EACH PANEL IS:
 Panel 1 (row 1, column 1): four small jade fists fanned out together.
-Panel 2 (row 1, column 2): a jade fist rising with a long curling ribbon wrapped around it.
+Panel 2 (row 1, column 2): a jade fist driving upward, a long curling jade ribbon spiralling up around it.
 Panel 3 (row 1, column 3): a single long white feather. Keep this one compact, well away from its panel's four corners (the game crops it to a circle). Do NOT draw a circle, ring, disc or badge around or behind it.
-Panel 4 (row 2, column 1): a thick spiral with a small foot shape at its outer tip.
+Panel 4 (row 2, column 1): a jade-sleeved leg sweeping round in a high spinning kick, a wide pale curved swoosh following the foot.
 Panel 5 (row 2, column 2): a jade fist with three red claw slashes across it. Keep this one compact, well away from its panel's four corners (the game crops it to a circle). Do NOT draw a circle, ring, disc or badge around or behind it.
 Panel 6 (row 2, column 3): a giant jade palm pressing down on a pale mountain peak.
 
@@ -3137,8 +3137,8 @@ WHAT EACH PANEL IS:
 Panel 1 (row 1, column 1): a pink heart with a white musical note on it.
 Panel 2 (row 1, column 2): a pink lute with three small gold sparks flying from its strings. Keep this one compact, well away from its panel's four corners (the game crops it to a circle). Do NOT draw a circle, ring, disc or badge around or behind it.
 Panel 3 (row 1, column 3): a green plus sign with a white musical note on it.
-Panel 4 (row 2, column 1): a widening wedge shape opening to the right, with curved sound arcs.
-Panel 5 (row 2, column 2): two pink hands clapping with short motion lines above them. Keep this one compact, well away from its panel's four corners (the game crops it to a circle). Do NOT draw a circle, ring, disc or badge around or behind it.
+Panel 4 (row 2, column 1): a pink brass horn, its bell flaring wide to the upper right, a gold four-pointed sparkle at its mouth.
+Panel 5 (row 2, column 2): a pale raised hand with spread fingers clapping, two small gold sparkles around it. Keep this one compact, well away from its panel's four corners (the game crops it to a circle). Do NOT draw a circle, ring, disc or badge around or behind it.
 Panel 6 (row 2, column 3): a pink lute under a big bursting gold firework.
 
 COLOUR — ONE accent for the whole sheet: pink (about #ff8ad8). Wherever the reference uses that colour, yours does; white, gold, steel, wood, red, green and blue details keep the colours the reference gives them. Take the HUE, not the flatness.

diff --git a/art-sheets/PAINT-STATUS.md b/art-sheets/PAINT-STATUS.md
@@ -4,7 +4,7 @@ A report, not a contract: it is a picture of `art-sheets/painted/` and the
 slicer's receipt at the moment it was written. Re-run `pnpm art:prompts`
 after painting or slicing anything.
 
-**40 sliced · 9 need a repaint · 0 painted, unreceipted · 17 outstanding**
+**42 sliced · 7 need a repaint · 0 painted, unreceipted · 17 outstanding**
 
 | | Sheet | Prompt block in | Reference | State |
 | --- | --- | --- | --- | --- |
@@ -14,9 +14,9 @@ after painting or slicing anything.
 | ✓ | **Item icons: trinkets** | `PROMPTS-ITEMS.md` | `sheet-items-trinkets.png` (rev `b23c5e2aa7a1`) | sliced 2026-10-03 |
 | ✓ | **Item icons: headgear and gloves** | `PROMPTS-ITEMS.md` | `sheet-items-headgear.png` (rev `f56cfdfaf5fb`) | sliced 2026-10-03 |
 | ✓ | **Item icons: boots** | `PROMPTS-ITEMS.md` | `sheet-items-boots.png` (rev `05a2d72cdd50`) | sliced 2026-10-03 |
-| ! | **Skill icons: Aegis Knight** | `PROMPTS-SKILLS.md` | `sheet-skills-aegis.png` (rev `0ba6202c756b`) | REPAINT — the reference changed (41ace8182dfc → 0ba6202c756b) |
+| ✓ | **Skill icons: Aegis Knight** | `PROMPTS-SKILLS.md` | `sheet-skills-aegis.png` (rev `0ba6202c756b`) | sliced 2026-10-11 |
 | ✓ | **Skill icons: Aegis Knight (2 of 2)** | `PROMPTS-SKILLS.md` | `sheet-skills2-aegis.png` (rev `58e4d7a026f6`) | sliced 2026-10-07 |
-| ! | **Skill icons: Shadowblade** | `PROMPTS-SKILLS.md` | `sheet-skills-shadow.png` (rev `085c60ddf84e`) | REPAINT — the reference changed (2cfb44cfe91f → 085c60ddf84e) |
+| ✓ | **Skill icons: Shadowblade** | `PROMPTS-SKILLS.md` | `sheet-skills-shadow.png` (rev `085c60ddf84e`) | sliced 2026-10-11 |
 | ✓ | **Skill icons: Shadowblade (2 of 2)** | `PROMPTS-SKILLS.md` | `sheet-skills2-shadow.png` (rev `60af38781de3`) | sliced 2026-10-07 |
 | ! | **Skill icons: Pyromancer** | `PROMPTS-SKILLS.md` | `sheet-skills-pyro.png` (rev `ffb8ed2290a0`) | REPAINT — the reference changed (11c33b95224f → ffb8ed2290a0) |
 | ✓ | **Skill icons: Pyromancer (2 of 2)** | `PROMPTS-SKILLS.md` | `sheet-skills2-pyro.png` (rev `fffff84ea918`) | sliced 2026-10-07 |
@@ -33,19 +33,19 @@ after painting or slicing anything.
 | ✓ | **Skill icons: Windrunner** | `PROMPTS-SKILLS.md` | `sheet-skills-windrunner.png` (rev `38f5ed58228f`) | sliced 2026-10-07 |
 | ✓ | **Skill icons: Windrunner (2 of 2)** | `PROMPTS-SKILLS.md` | `sheet-skills2-windrunner.png` (rev `ccd5343695eb`) | sliced 2026-10-07 |
 | ✓ | **Skill icons: Frostwarden** | `PROMPTS-SKILLS.md` | `sheet-skills-frostwarden.png` (rev `a74323ae56df`) | sliced 2026-10-11 |
-| · | **Skill icons: Frostwarden (2 of 2)** | `PROMPTS-SKILLS.md` | `sheet-skills2-frostwarden.png` (rev `07208654e3c4`) | not painted yet |
-| · | **Skill icons: Lightbringer** | `PROMPTS-SKILLS.md` | `sheet-skills-lightbringer.png` (rev `6bbb8dffceeb`) | not painted yet |
-| · | **Skill icons: Lightbringer (2 of 2)** | `PROMPTS-SKILLS.md` | `sheet-skills2-lightbringer.png` (rev `43450a614ce4`) | not painted yet |
-| · | **Skill icons: Beastcaller** | `PROMPTS-SKILLS.md` | `sheet-skills-beastcaller.png` (rev `cbea98f501c5`) | not painted yet |
-| · | **Skill icons: Beastcaller (2 of 2)** | `PROMPTS-SKILLS.md` | `sheet-skills2-beastcaller.png` (rev `d00012fc554d`) | not painted yet |
-| · | **Skill icons: Elementalist** | `PROMPTS-SKILLS.md` | `sheet-skills-elementalist.png` (rev `a6531c8688ba`) | not painted yet |
+| · | **Skill icons: Frostwarden (2 of 2)** | `PROMPTS-SKILLS.md` | `sheet-skills2-frostwarden.png` (rev `b686db05604f`) | not painted yet |
+| · | **Skill icons: Lightbringer** | `PROMPTS-SKILLS.md` | `sheet-skills-lightbringer.png` (rev `b663adc59989`) | not painted yet |
+| · | **Skill icons: Lightbringer (2 of 2)** | `PROMPTS-SKILLS.md` | `sheet-skills2-lightbringer.png` (rev `c53ac606e411`) | not painted yet |
+| · | **Skill icons: Beastcaller** | `PROMPTS-SKILLS.md` | `sheet-skills-beastcaller.png` (rev `297a1ae74d6f`) | not painted yet |
+| · | **Skill icons: Beastcaller (2 of 2)** | `PROMPTS-SKILLS.md` | `sheet-skills2-beastcaller.png` (rev `50d735ef1617`) | not painted yet |
+| · | **Skill icons: Elementalist** | `PROMPTS-SKILLS.md` | `sheet-skills-elementalist.png` (rev `dcb515f85ebe`) | not painted yet |
 | · | **Skill icons: Elementalist (2 of 2)** | `PROMPTS-SKILLS.md` | `sheet-skills2-elementalist.png` (rev `32983c7ed53c`) | not painted yet |
-| · | **Skill icons: Soul Warden** | `PROMPTS-SKILLS.md` | `sheet-skills-soulwarden.png` (rev `06aa76023241`) | not painted yet |
+| · | **Skill icons: Soul Warden** | `PROMPTS-SKILLS.md` | `sheet-skills-soulwarden.png` (rev `4f8e6a467369`) | not painted yet |
 | · | **Skill icons: Soul Warden (2 of 2)** | `PROMPTS-SKILLS.md` | `sheet-skills2-soulwarden.png` (rev `97f0e4862e97`) | not painted yet |
-| · | **Skill icons: Iron Monk** | `PROMPTS-SKILLS.md` | `sheet-skills-ironmonk.png` (rev `5ab58e187ffa`) | not painted yet |
-| · | **Skill icons: Iron Monk (2 of 2)** | `PROMPTS-SKILLS.md` | `sheet-skills2-ironmonk.png` (rev `ab03cc998cb4`) | not painted yet |
+| · | **Skill icons: Iron Monk** | `PROMPTS-SKILLS.md` | `sheet-skills-ironmonk.png` (rev `fa36c243e7d7`) | not painted yet |
+| · | **Skill icons: Iron Monk (2 of 2)** | `PROMPTS-SKILLS.md` | `sheet-skills2-ironmonk.png` (rev `cfabe95035cf`) | not painted yet |
 | · | **Skill icons: Bard** | `PROMPTS-SKILLS.md` | `sheet-skills-bard.png` (rev `d6f4ff72caa4`) | not painted yet |
-| · | **Skill icons: Bard (2 of 2)** | `PROMPTS-SKILLS.md` | `sheet-skills2-bard.png` (rev `86f4925e0612`) | not painted yet |
+| · | **Skill icons: Bard (2 of 2)** | `PROMPTS-SKILLS.md` | `sheet-skills2-bard.png` (rev `7c43d065f29e`) | not painted yet |
 | ✓ | **Portraits: townsfolk** | `PROMPTS-PORTRAITS.md` | `sheet-portraits-town.png` (rev `3732e628fe79`) | sliced 2026-10-02 |
 | ✓ | **Portraits: trainers** | `PROMPTS-PORTRAITS.md` | `sheet-portraits-trainers.png` (rev `770414fa440b`) | sliced 2026-10-02 |
 | ✓ | **Portraits: quest speakers** | `PROMPTS-PORTRAITS.md` | `sheet-portraits-speakers.png` (rev `58641c102acc`) | sliced 2026-10-03 |
